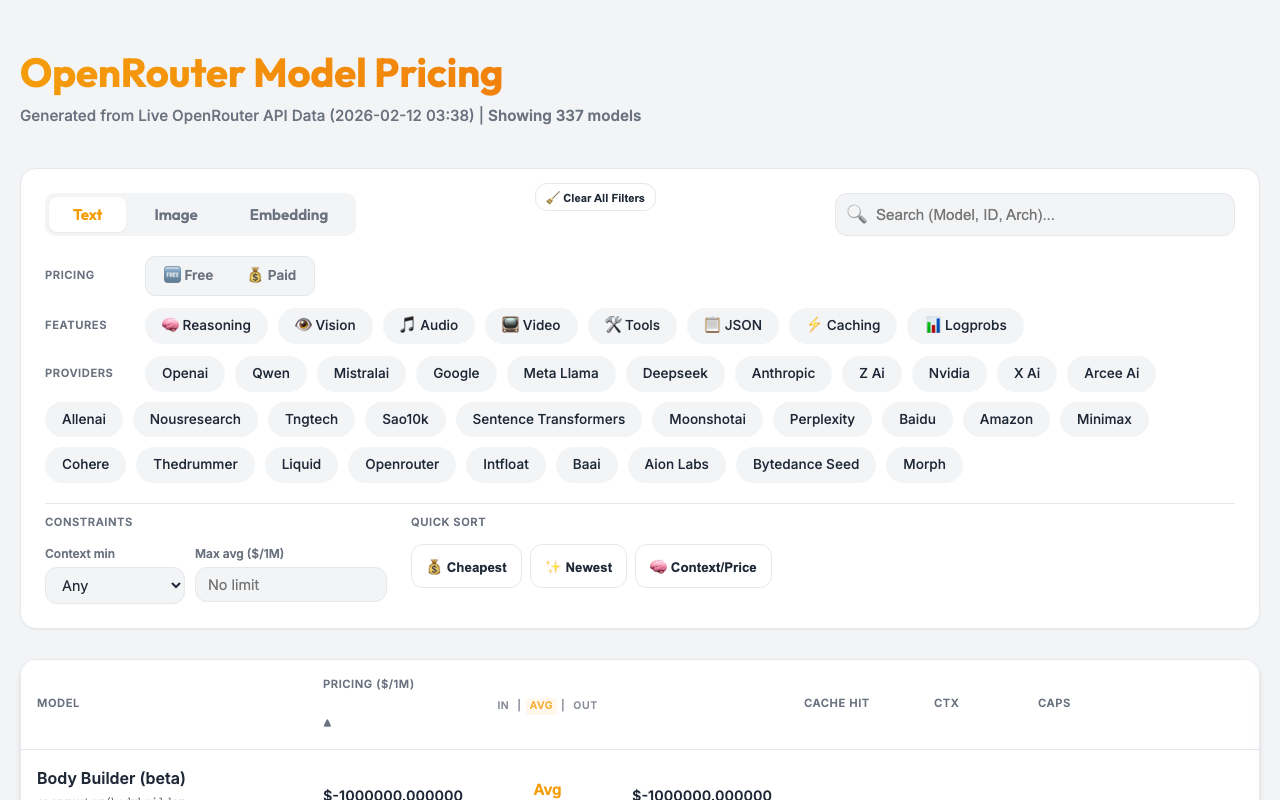
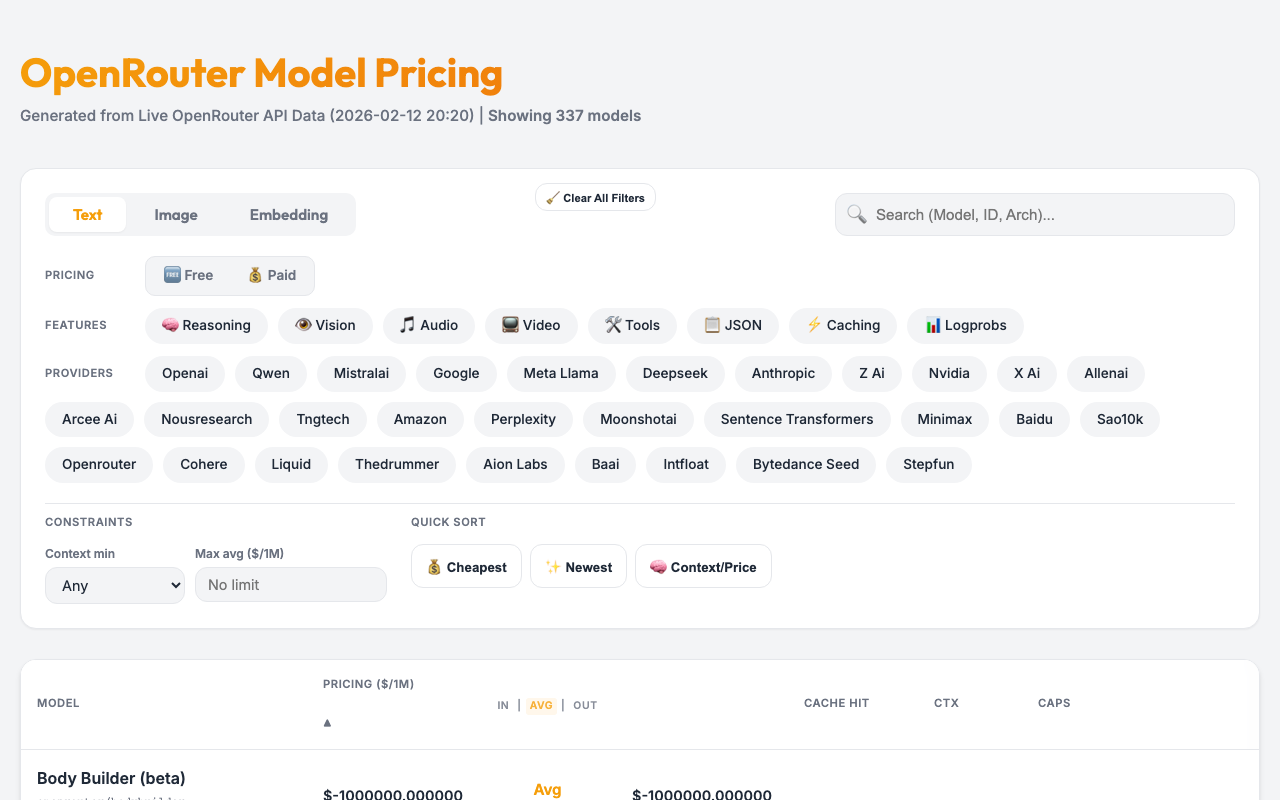
chore: automated pricing update (2026-02-12 20:20:04)
🔄 Changed Models (4): arcee-ai/trinity-mini, microsoft/wizardlm-2-8x22b, qwen/qwen3-max-thinking, z-ai/glm-5

diff --git a/docs/index.html b/docs/index.html
@@ -634,7 +634,7 @@
     <div class="container">
         <header>
             <h1>OpenRouter Model Pricing</h1>
-            <div class="meta">Generated from Live OpenRouter API Data (2026-02-12 03:38)</div>
+            <div class="meta">Generated from Live OpenRouter API Data (2026-02-12 20:20)</div>
         </header>
 
         <div class="controls">
@@ -707,7 +707,7 @@
       "name": "Z.ai: GLM 5",
       "created": 1770829182,
       "description": "GLM-5 is Z.ai\u2019s flagship open-source foundation model engineered for complex systems design and long-horizon agent workflows. Built for expert developers, it delivers production-grade performance on large-scale programming tasks, rivaling leading closed-source models. With advanced agentic planning, deep backend reasoning, and iterative self-correction, GLM-5 moves beyond code generation to full-system construction and autonomous execution.",
-      "context_length": 202800,
+      "context_length": 202752,
       "architecture": {
         "modality": "text->text",
         "input_modalities": [
@@ -721,18 +721,18 @@
       },
       "pricing": {
         "prompt": "0.000001",
-        "completion": "0.0000032",
-        "input_cache_read": "0.0000002"
+        "completion": "0.0000032"
       },
       "top_provider": {
-        "context_length": 202800,
-        "max_completion_tokens": 131072,
+        "context_length": 202752,
+        "max_completion_tokens": 202752,
         "is_moderated": false
       },
       "per_request_limits": null,
       "supported_parameters": [
         "frequency_penalty",
         "include_reasoning",
+        "logit_bias",
         "max_tokens",
         "min_p",
         "presence_penalty",
@@ -780,7 +780,7 @@
       },
       "top_provider": {
         "context_length": 262144,
-        "max_completion_tokens": 32768,
+        "max_completion_tokens": 65536,
         "is_moderated": false
       },
       "per_request_limits": null,
@@ -3103,21 +3103,15 @@
       },
       "per_request_limits": null,
       "supported_parameters": [
-        "frequency_penalty",
         "include_reasoning",
-        "logit_bias",
         "max_tokens",
-        "min_p",
-        "presence_penalty",
         "reasoning",
-        "repetition_penalty",
         "response_format",
         "stop",
         "structured_outputs",
         "temperature",
         "tool_choice",
         "tools",
-        "top_k",
         "top_p"
       ],
       "default_parameters": {
@@ -16088,7 +16082,7 @@
       "name": "WizardLM-2 8x22B",
       "created": 1713225600,
       "description": "WizardLM-2 8x22B is Microsoft AI's most advanced Wizard model. It demonstrates highly competitive performance compared to leading proprietary models, and it consistently outperforms all existing state-of-the-art opensource models.\n\nIt is an instruct finetune of [Mixtral 8x22B](/models/mistralai/mixtral-8x22b).\n\nTo read more about the model release, [click here](https://wizardlm.github.io/WizardLM2/).\n\n#moe",
-      "context_length": 65536,
+      "context_length": 65535,
       "architecture": {
         "modality": "text->text",
         "input_modalities": [
@@ -16101,22 +16095,20 @@
         "instruct_type": "vicuna"
       },
       "pricing": {
-        "prompt": "0.00000048",
-        "completion": "0.00000048"
+        "prompt": "0.00000062",
+        "completion": "0.00000062"
       },
       "top_provider": {
-        "context_length": 65536,
-        "max_completion_tokens": 16384,
+        "context_length": 65535,
+        "max_completion_tokens": 8000,
         "is_moderated": false
       },
       "per_request_limits": null,
       "supported_parameters": [
         "frequency_penalty",
         "max_tokens",
-        "min_p",
         "presence_penalty",
         "repetition_penalty",
-        "response_format",
         "seed",
         "stop",
         "temperature",
@@ -18355,7 +18347,7 @@
   ],
   "other": []
 };
-        window.providerOptions = ['openai', 'qwen', 'mistralai', 'google', 'meta-llama', 'deepseek', 'anthropic', 'z-ai', 'nvidia', 'x-ai', 'arcee-ai', 'allenai', 'nousresearch', 'tngtech', 'sao10k', 'sentence-transformers', 'moonshotai', 'perplexity', 'baidu', 'amazon', 'minimax', 'cohere', 'thedrummer', 'liquid', 'openrouter', 'intfloat', 'baai', 'aion-labs', 'bytedance-seed', 'morph', 'thenlper', 'neversleep', 'inflection', 'relace', 'stepfun', 'microsoft', 'inception', 'prime-intellect', 'alfredpros', 'alibaba', 'bytedance', 'mancer', 'raifle', 'gryphe', 'eleutherai', 'anthracite-org', 'cognitivecomputations', 'alpindale', 'kwaipilot', 'meituan', 'ibm-granite', 'undi95', 'nex-agi', 'switchpoint', 'opengvlab', 'ai21', 'xiaomi', 'deepcogito', 'essentialai', 'tencent', 'upstage', 'writer'];
+        window.providerOptions = ['openai', 'qwen', 'mistralai', 'google', 'meta-llama', 'deepseek', 'anthropic', 'z-ai', 'nvidia', 'x-ai', 'allenai', 'arcee-ai', 'nousresearch', 'tngtech', 'amazon', 'perplexity', 'moonshotai', 'sentence-transformers', 'minimax', 'baidu', 'sao10k', 'openrouter', 'cohere', 'liquid', 'thedrummer', 'aion-labs', 'baai', 'intfloat', 'bytedance-seed', 'stepfun', 'inception', 'neversleep', 'relace', 'inflection', 'thenlper', 'morph', 'microsoft', 'deepcogito', 'opengvlab', 'upstage', 'essentialai', 'anthracite-org', 'mancer', 'kwaipilot', 'ai21', 'ibm-granite', 'bytedance', 'alpindale', 'switchpoint', 'alibaba', 'eleutherai', 'meituan', 'undi95', 'prime-intellect', 'gryphe', 'alfredpros', 'raifle', 'cognitivecomputations', 'writer', 'nex-agi', 'tencent', 'xiaomi'];
         let currentTab = 'text';
         let sortKey = 'price_avg';
         let sortAsc = true;
